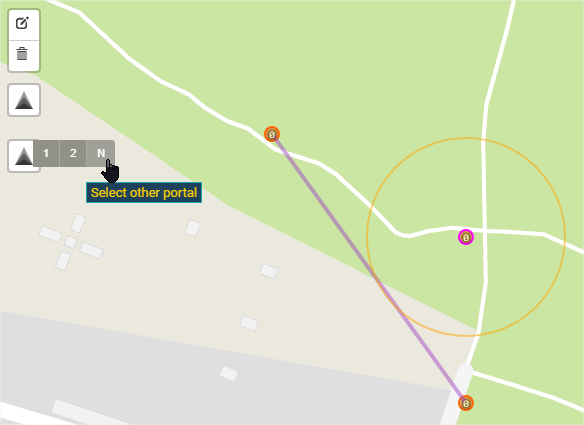
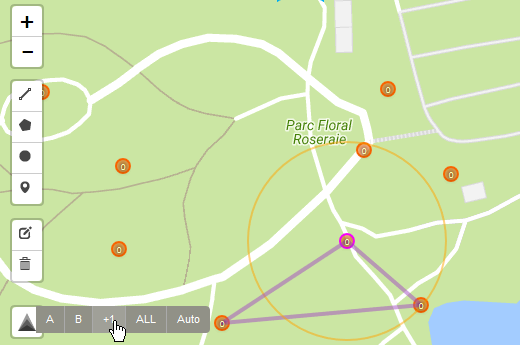
Tutorial update

diff --git a/iitc-plugin-multidraw/index.html b/iitc-plugin-multidraw/index.html
@@ -11,23 +11,38 @@
         <h1>IITC Multi draw plugin</h1>
         <ol>
             <li>
-                <a href="https://kewwwa.github.io/iitc-plugin-multidraw/plugins/multi-draw.user.js">Installer le plugin</a>
+                <a href="https://iitc.me" target="_blank">Installer IITC</a>
             </li>
             <li>
-                <p>Sélectionner le premier portail et cliquer sur "1"</p>
+                <a href="https://static.iitc.me/build/release/plugins/draw-tools.user.js">Installer le plugin Draw tools</a>
+            </li>
+            <li>
+                <a href="https://kewwwa.github.io/iitc-plugin-multidraw/plugins/multi-draw.user.js">Installer le plugin Multi draw</a>
+            </li>
+            <li>
+                <p>Sélectionner le premier portail et cliquer sur "A"</p>
                 <img src="img/firstPortal.png" />
             </li>
             <li>
-                <p>Sélectionner le second portail et cliquer sur "2"</p>
+                <p>Sélectionner le second portail et cliquer sur "B"</p>
                 <img src="img/secondPortal.png" />
             </li>
             <li>
-                <p>Sélectionner un autre portail et cliquer sur "N"</p>
+                <p>Sélectionner un autre portail et cliquer sur "+1"</p>
                 <img src="img/nextPortal.png" />
             </li>
             <li>
-                <p>Continuer votre multi en sélectionnant d'autres portails et en cliquant sur "N"</p>
+                <p>Continuer votre plan en sélectionnant d'autres portails et en cliquant sur "+1"</p>
                 <img src="img/otherPortal.png" />
+            </li>
+            <li>
+                <p>Cliquer sur "Auto" pour activer/désactiver l'ajout automatique au plan à la sélection d'un portail</p>
+                <img src="img/autoPortal.png" />
+            </li>
+            <li>
+                <p>Cliquer sur "ALL" pour ajouter tous les portails visibles au plan.</p>
+                <p>Vous pourrez ensuite supprimer les portails non souhaité avec l'outil "Corbeille".</p>
+                <img src="img/allPortal.png" />
             </li>
         </ol>
     </body>
